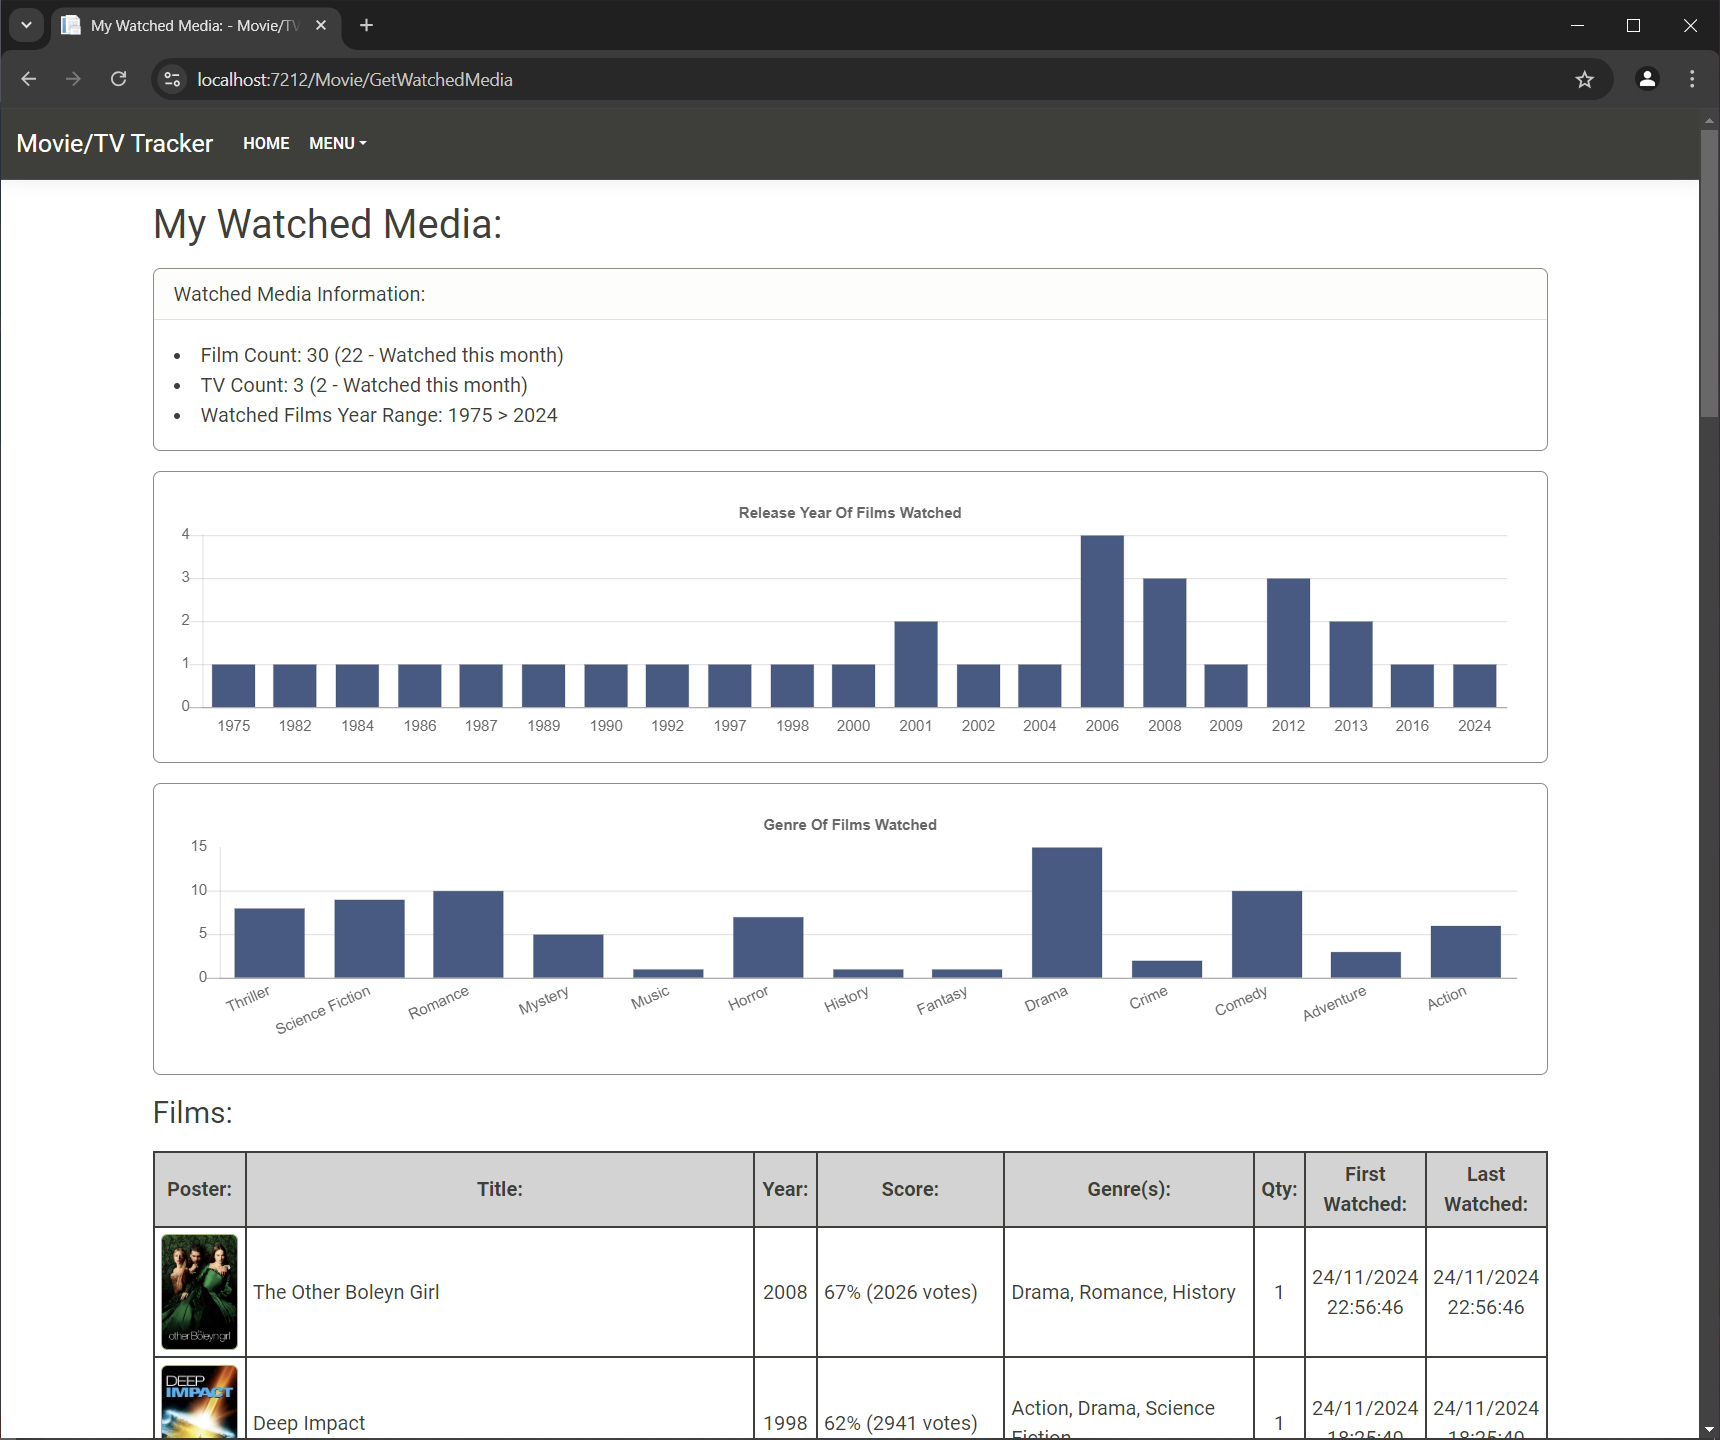
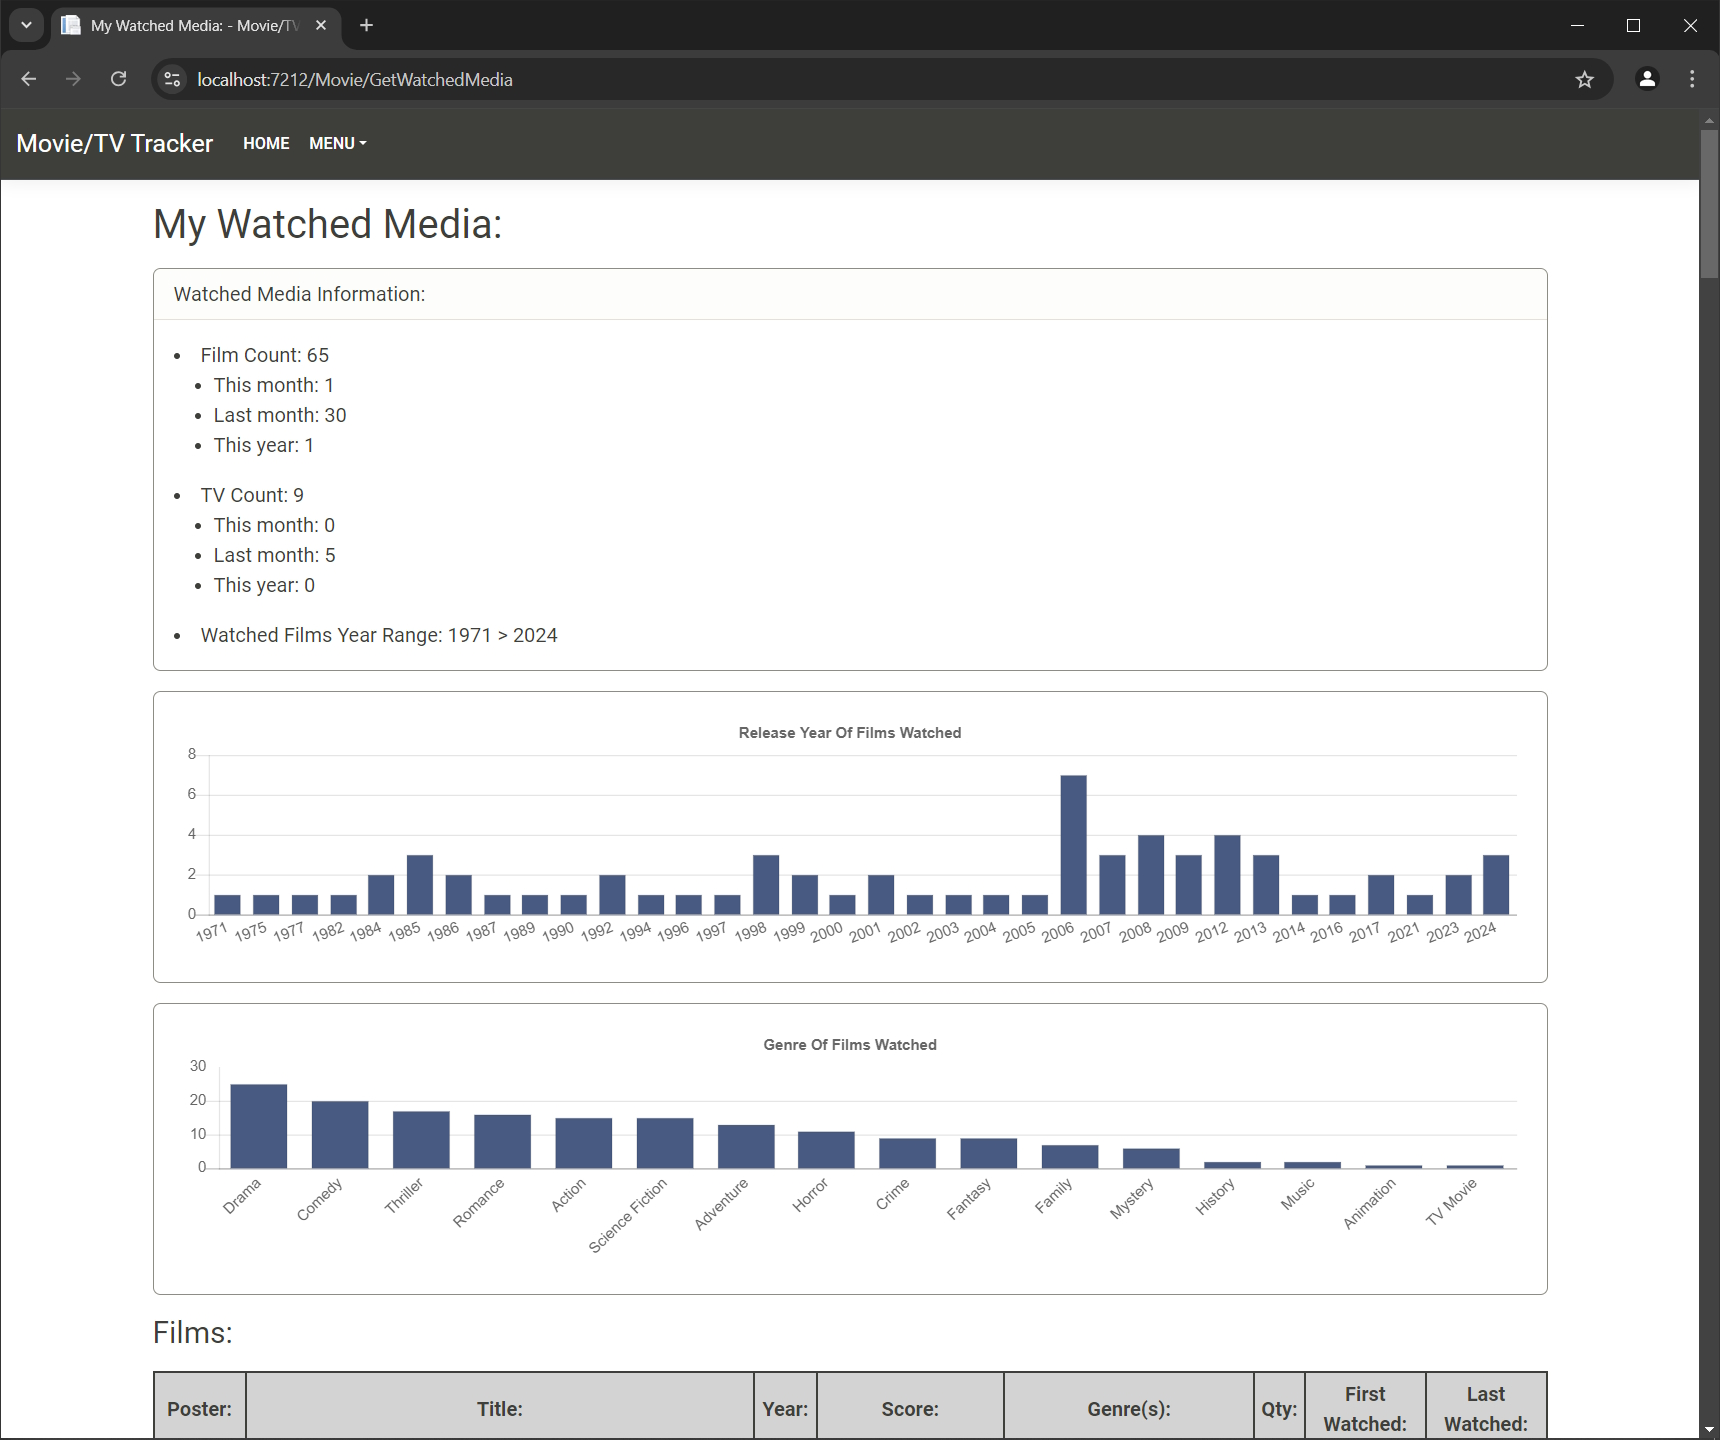
Updated images & notes.  Error handling added for API for when there is no internet connection.  Genre information is now sorted from highest to lowest value order.  More stats show for watched media figures for film & tv.  More code extracted out from view and moved to class for better seperation o

diff --git a/MovieTvTracker.Web/Class/GetStatistics.cs b/MovieTvTracker.Web/Class/GetStatistics.cs
@@ -64,8 +64,40 @@ namespace MovieTvTracker.Web.Class
             }
             
             media.Stats.FilmYears = media.Stats.FilmYears.OrderBy(x => x.Year).ToList();
-            media.Stats.FilmGenres = media.Stats.FilmGenres.OrderByDescending(x => x.Genre).ToList();
-            media.Stats.TvGenres = media.Stats.TvGenres.OrderByDescending(x => x.Genre).ToList();
+            media.Stats.FilmGenres = media.Stats.FilmGenres.OrderByDescending(x => x.Qty).ToList();
+            media.Stats.TvGenres = media.Stats.TvGenres.OrderByDescending(x => x.Qty).ToList();
+            media.YearRange = string.Format("{0} > {1}", media.Stats.FilmYears.First().Year.ToString(), media.Stats.FilmYears.Last().Year.ToString());
+
+            return media;
+        }
+
+        public IMedia GetQtyViewingStats(IMedia media)
+        {
+            media.FilmsLastMonth = 0;
+            media.TvLastMonth = 0;
+
+            if (DateTime.Now.Month == 1)
+            {
+                media.FilmsLastMonth = media.WatchedMediaResults.WatchedFilms.Where(item => item.WatchedMedia.LastWatched.Month == 12 && item.WatchedMedia.LastWatched.Year == (DateTime.Now.Year - 1)).Count();
+            }
+            else
+            {
+                media.FilmsLastMonth = media.WatchedMediaResults.WatchedFilms.Where(item => item.WatchedMedia.LastWatched.Month == (DateTime.Now.Month - 1)).Count();
+            }
+
+            if (DateTime.Now.Month == 1)
+            {
+                media.TvLastMonth = media.WatchedMediaResults.WatchedTV.Where(item => item.WatchedMedia.LastWatched.Month == 12 && item.WatchedMedia.LastWatched.Year == (DateTime.Now.Year - 1)).Count();
+            }
+            else
+            {
+                media.TvLastMonth = media.WatchedMediaResults.WatchedTV.Where(item => item.WatchedMedia.LastWatched.Month == (DateTime.Now.Month - 1)).Count();
+            }
+
+            media.FilmsThisYear = media.WatchedMediaResults.WatchedFilms.Where(item => item.WatchedMedia.LastWatched.Year == DateTime.Now.Year).Count();
+            media.TvThisYear = media.WatchedMediaResults.WatchedTV.Where(item => item.WatchedMedia.LastWatched.Year == DateTime.Now.Year).Count();
+            media.FilmsThisMonth = media.WatchedMediaResults.WatchedFilms.Where(item => item.WatchedMedia.LastWatched.Month == DateTime.Now.Month).Count();
+            media.TvThisMonth = media.WatchedMediaResults.WatchedTV.Where(item => item.WatchedMedia.LastWatched.Month == DateTime.Now.Month).Count();
 
             return media;
         }

diff --git a/MovieTvTracker.Web/Models/Media.cs b/MovieTvTracker.Web/Models/Media.cs
@@ -5,15 +5,22 @@ namespace MovieTvTracker.Web.Models
 {
     public class Media : IMedia
     {
-        public Int32 SelectedTMDBId { get; set; }
-        public string SelectedContentType { get; set; }
-        public string Keyword { get; set; }
-        public bool EnglishResultOnly { get; set; }
+        public List<ResultReturn> FavoriteActorResults { get; set; }
         public ResultReturn TMDBData { get; set; }
         public WatchedMediaResults WatchedMediaResults { get; set; }
         public Stats Stats { get; set; }
-        public List<ResultReturn> FavoriteActorResults { get; set; }
-        
+        public Int32 SelectedTMDBId { get; set; }
+        public Int32 FilmsThisYear { get; set; }
+        public Int32 TvThisYear { get; set; }
+        public Int32 FilmsThisMonth { get; set; }
+        public Int32 FilmsLastMonth { get; set; }
+        public Int32 TvThisMonth { get; set; }
+        public Int32 TvLastMonth { get; set; }
+        public string YearRange { get; set; }
+        public string SelectedContentType { get; set; }
+        public string Keyword { get; set; }
+        public bool EnglishResultOnly { get; set; }
+
         public Media()
         {
             FavoriteActorResults = new List<ResultReturn>();

diff --git a/MovieTvTracker.Web/Interfaces/IMedia.cs b/MovieTvTracker.Web/Interfaces/IMedia.cs
@@ -5,13 +5,20 @@ namespace MovieTvTracker.Web.Interfaces
 {
     public interface IMedia
     {
+        List<ResultReturn> FavoriteActorResults { get; set; }
+        WatchedMediaResults WatchedMediaResults { get; set; }
+        Stats Stats { get; set; }
+        ResultReturn TMDBData { get; set; }
         Int32 SelectedTMDBId { get; set; }
+        Int32 FilmsThisYear { get; set; }
+        Int32 TvThisYear { get; set; }
+        Int32 FilmsThisMonth { get; set; }
+        Int32 FilmsLastMonth { get; set; }
+        Int32 TvThisMonth { get; set; }
+        Int32 TvLastMonth { get; set; }
+        string YearRange { get; set; }
         string SelectedContentType { get; set; }
         string Keyword { get; set; }
         bool EnglishResultOnly { get; set; }
-        ResultReturn TMDBData { get; set; }
-        WatchedMediaResults WatchedMediaResults { get; set; }
-        Stats Stats { get; set; }
-        List<ResultReturn> FavoriteActorResults { get; set; }
     }
 }

diff --git a/MovieTvTracker.Web/Controllers/MovieController.cs b/MovieTvTracker.Web/Controllers/MovieController.cs
@@ -97,6 +97,7 @@ namespace MovieTvTracker.Web.Controllers
                 }
 
                 media = stats.GetPopularYearsAndGenres(media);
+                media = stats.GetQtyViewingStats(media);
             }
             catch (Exception ex)
             {
@@ -117,6 +118,8 @@ namespace MovieTvTracker.Web.Controllers
 
             try
             {
+                // Restrict to '75' to keep page performant
+                //foreach (FavoriteActor item in _db.FavoriteActor.Take(75))
                 foreach (FavoriteActor item in _db.FavoriteActor)
                 {
                     try

diff --git a/TmdbApi.Lib/Tmdb.cs b/TmdbApi.Lib/Tmdb.cs
@@ -50,6 +50,11 @@ namespace TmdbApi.Lib
                 // Usually caused when no '_readAccessToken' has been provided on the call
                 // TODO: Add in error handling
             }
+            else if (response.StatusCode == 0)
+            {
+                // Usually caused when there is no internet connection
+                // TODO: Add in error handling
+            }
 
             return null;
         }

diff --git a/MovieTvTracker.Web/Interfaces/IGetStatistics.cs b/MovieTvTracker.Web/Interfaces/IGetStatistics.cs
@@ -3,5 +3,6 @@
     public interface IGetStatistics
     {
         IMedia GetPopularYearsAndGenres(IMedia media);
+        IMedia GetQtyViewingStats(IMedia media);
     }
 }

diff --git a/README.md b/README.md
@@ -18,10 +18,10 @@ The second part of this project is a full-stack application consisting of a ASP.
 - Display of movies currently showing in the cinema in the UK.
 - Display of movie information.
 - Display of tv show information.
-- Display of actor/actress information.
+- Display of actor information.
 - Ability to mark films/tv shows the user has watched and have them displayed under a dedicated section for reference.
 - Ability to mark favorite actors and have them displayed under a dedicated section for reference.
-- Show graph data of film/tv years and genres the user has watched.
+- Show graph/stat data of film/tv quantity, years, genres the user has watched.
 - Filter by English only or worldwide search results.
 
 NOTE!:
@@ -74,6 +74,7 @@ Images:
 ![Alt text](Images/MovieTvTrackerPersonResult3.jpg)
 ![Alt text](Images/MovieTvTrackerWatchedMedia1.jpg)
 ![Alt text](Images/MovieTvTrackerWatchedMedia2.jpg)
+![Alt text](Images/MovieTvTrackerWatchedMedia3.jpg)
 ![Alt text](Images/MovieTvTrackerFavoriteActor1.jpg)
 ![Alt text](Images/MovieTvTrackerEnd1.jpg)
 ![Alt text](Images/MovieTvTrackerEnd2.jpg)
